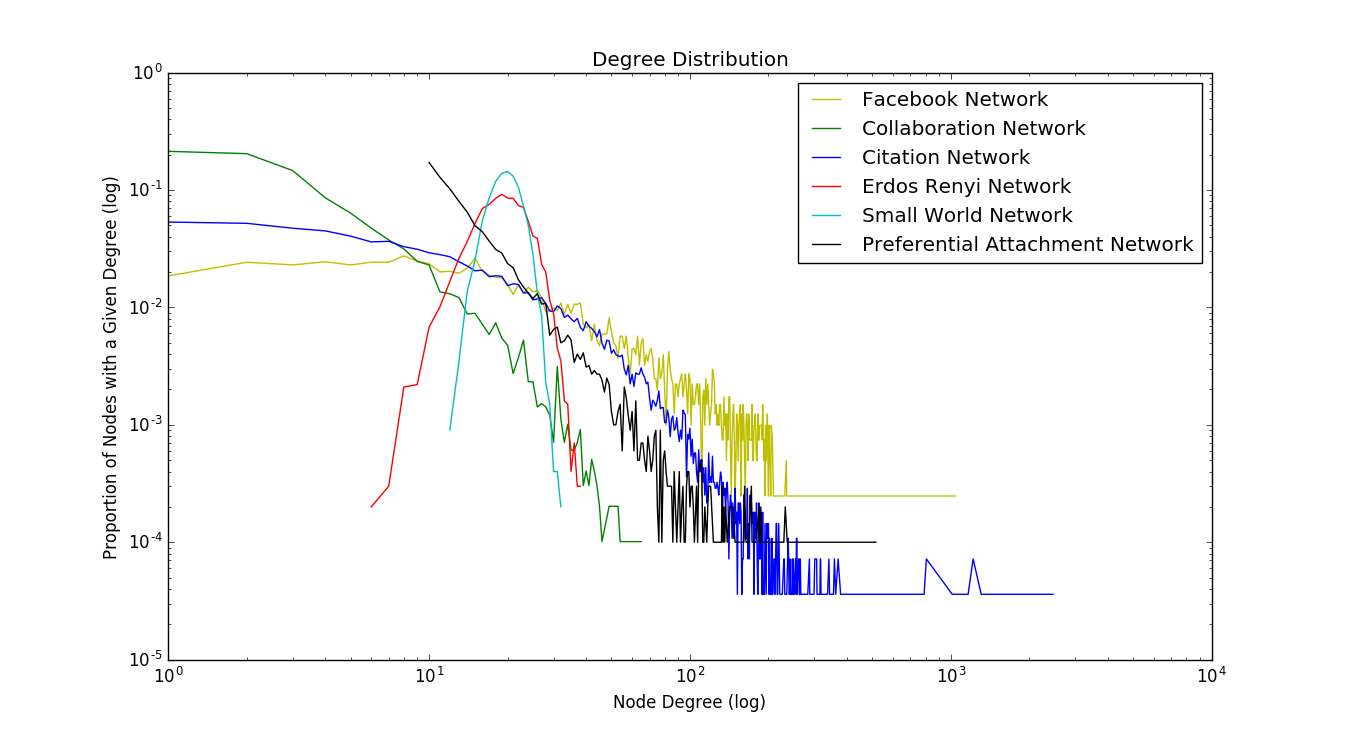
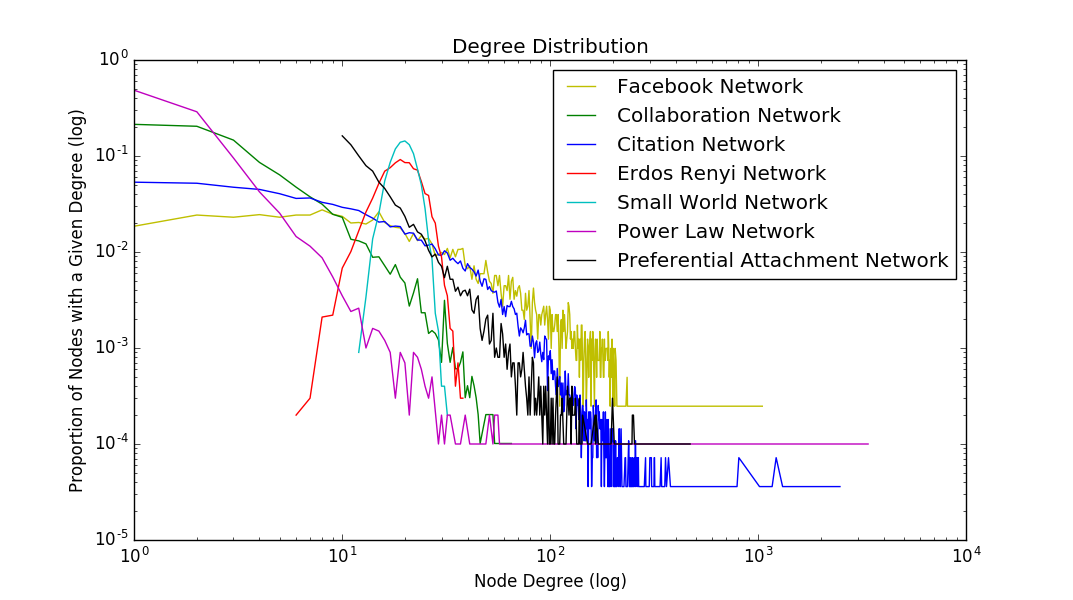
Committing some visualizations

diff --git a/plotDegreeDistributions.py b/plotDegreeDistributions.py
@@ -59,7 +59,7 @@ def plotGraphs():
     x_smallworld, y_smallworld = getDataPointsToPlot(smallWorld)
     plt.loglog(x_smallworld, y_smallworld, color = 'c', label = 'Small World Network')
 
-    x_powerlaw, y_powerlaw = getDataPointsToPlot(smallWorld)
+    x_powerlaw, y_powerlaw = getDataPointsToPlot(powerLaw)
     plt.loglog(x_powerlaw, y_powerlaw, color = 'm', label = 'Power Law Network')
 
     x_prefAttachment, y_prefAttachment = getDataPointsToPlot(prefAttachment)
